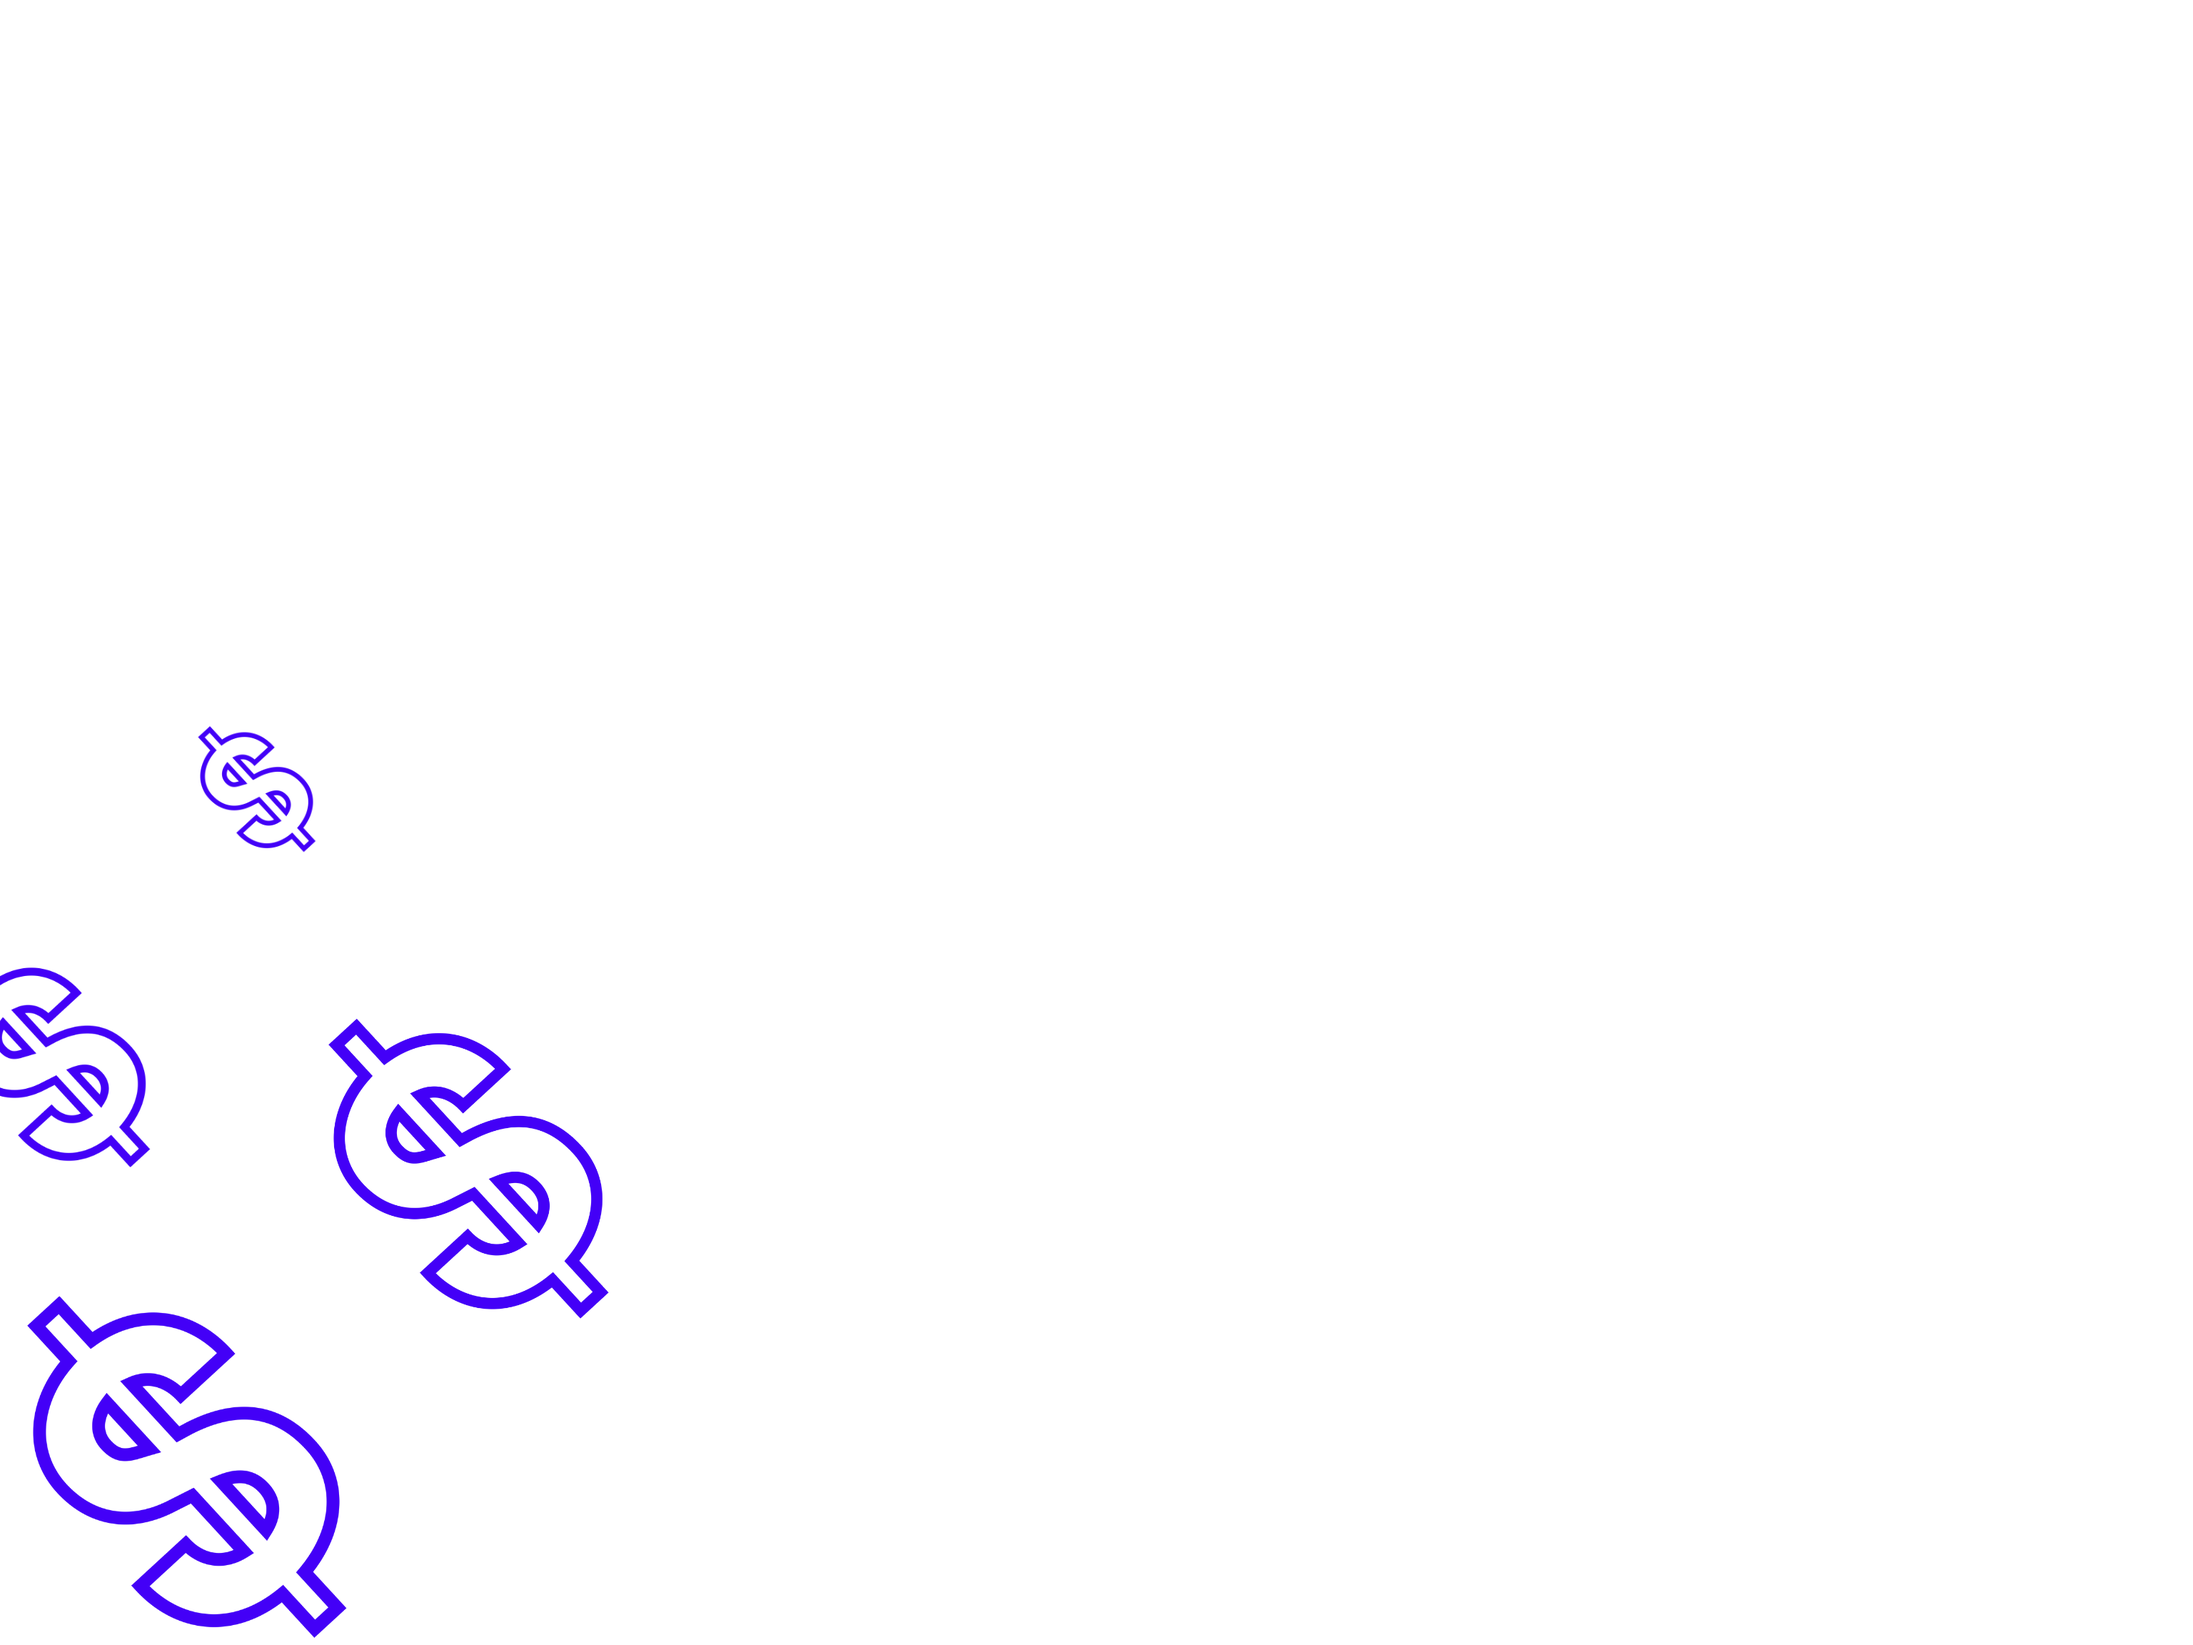
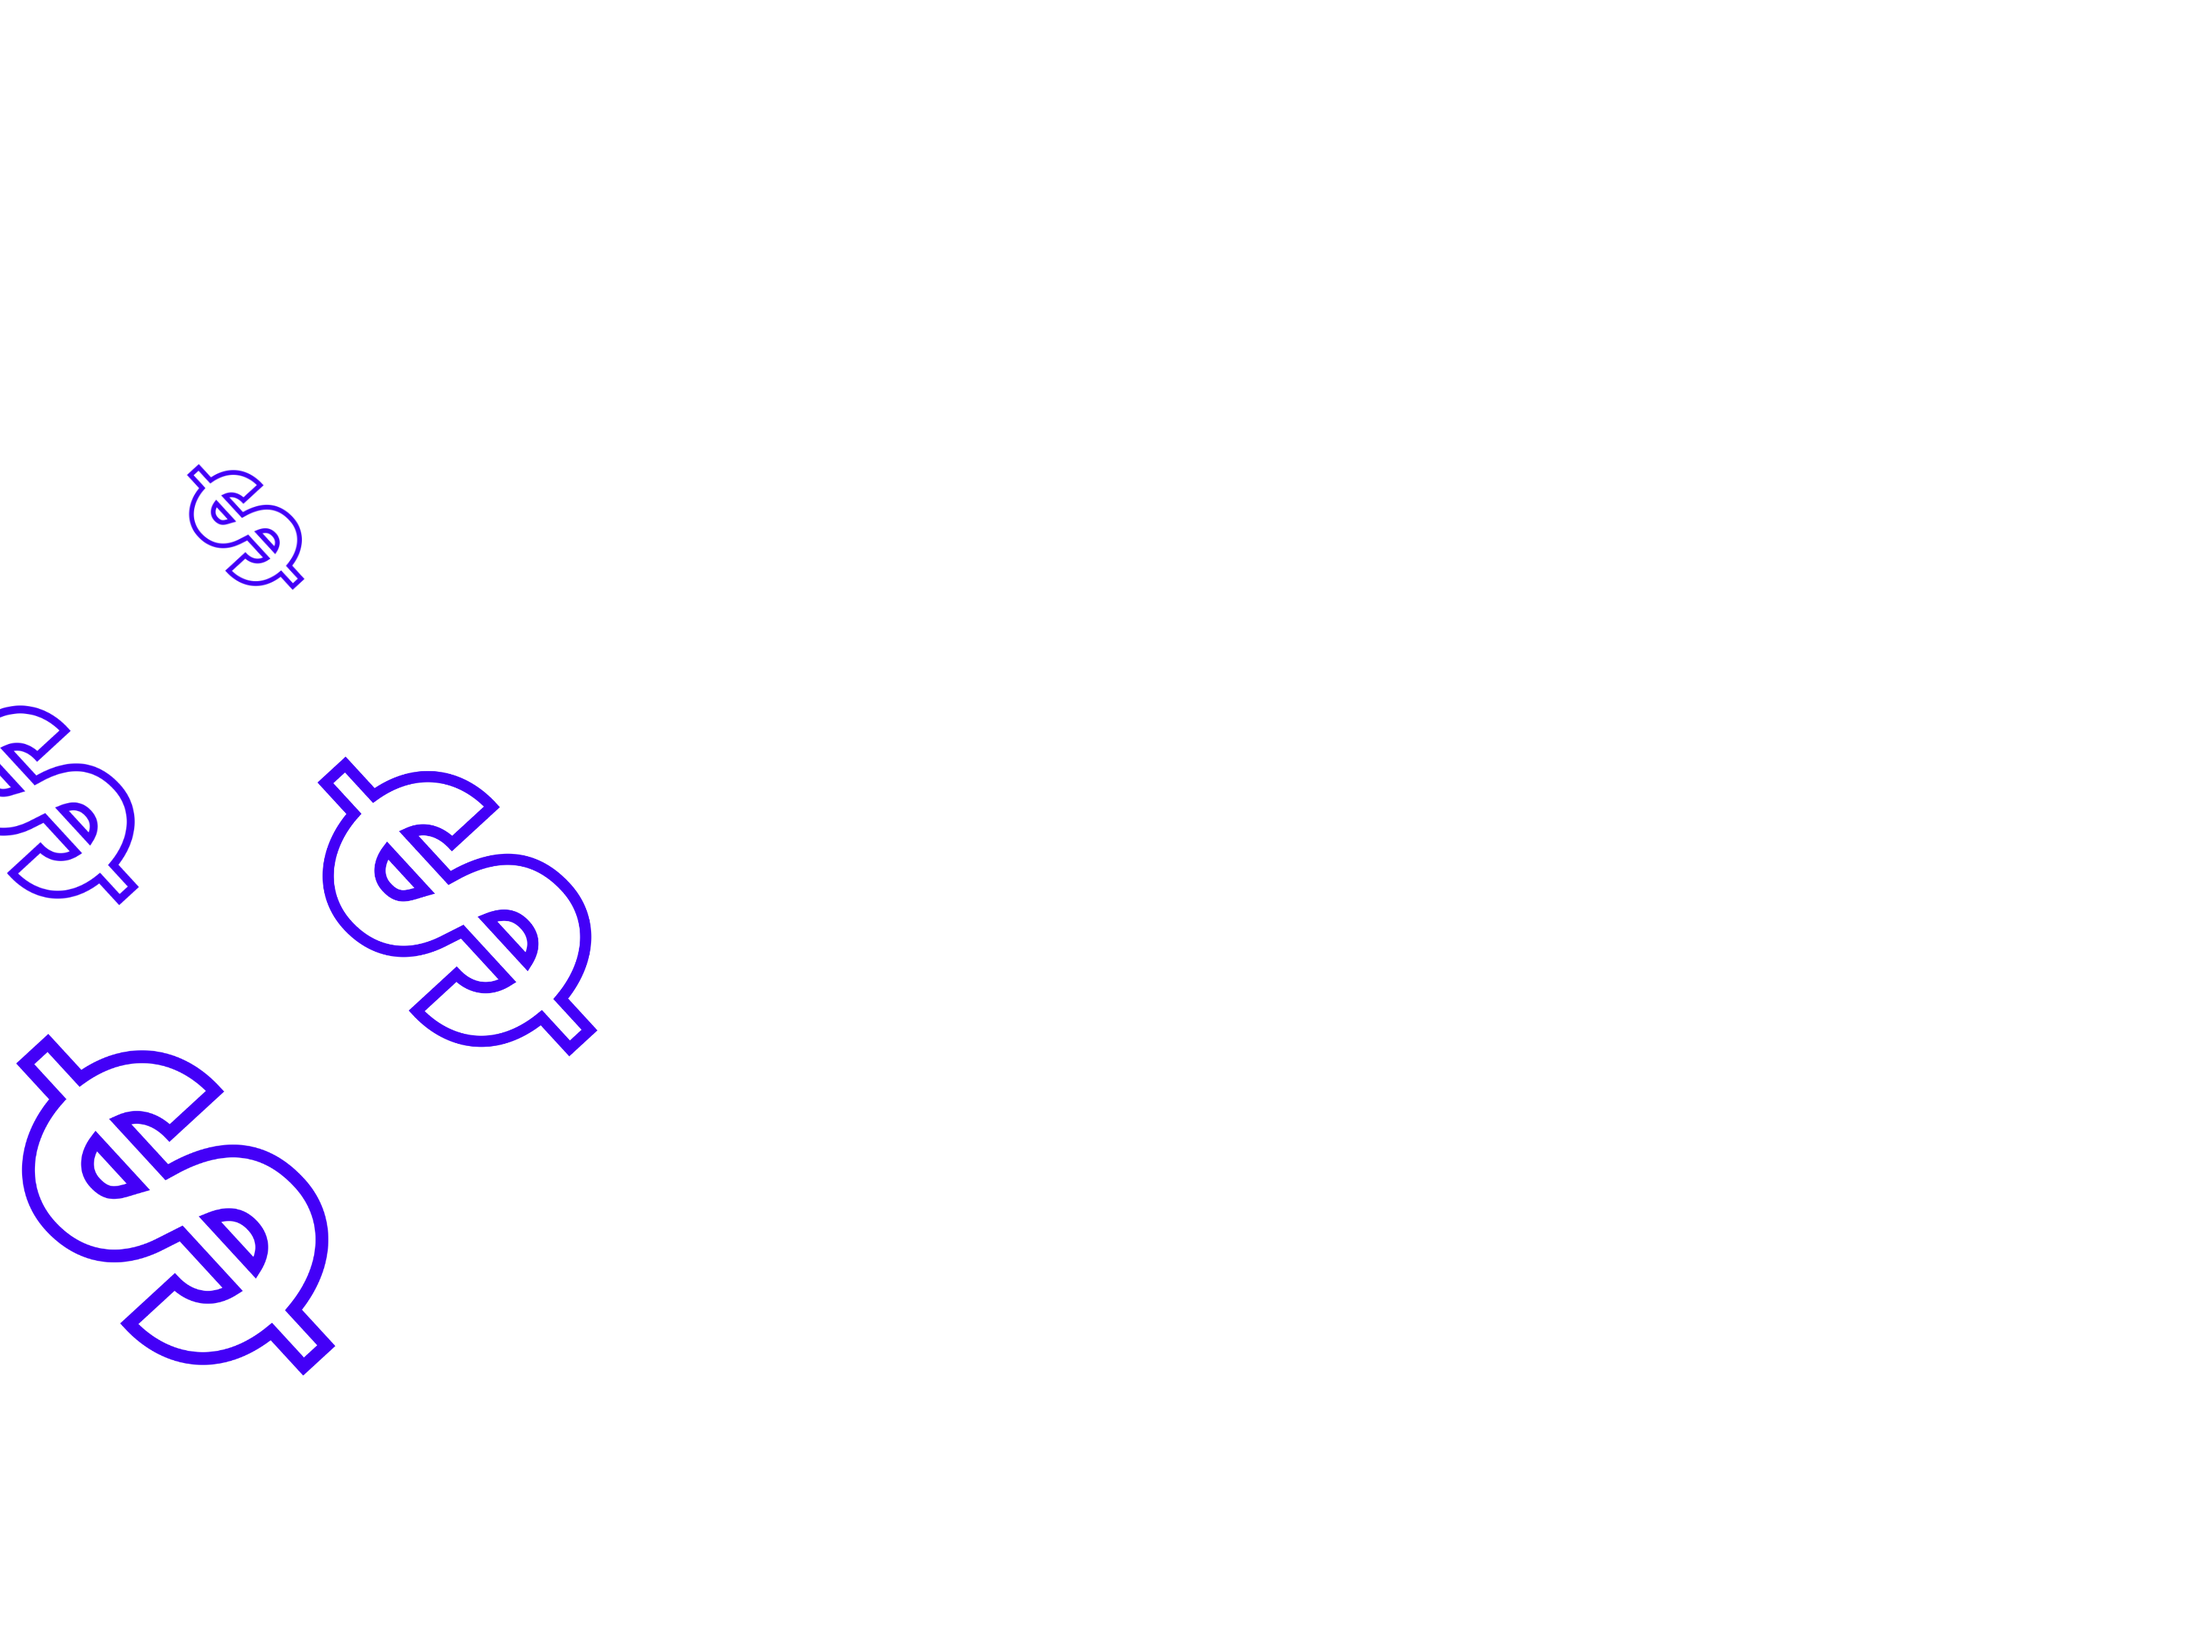
changed look slightly

Changed region(s): [[0.0, 0.4062, 0.2812, 1.0], [0.0625, 0.2812, 0.1562, 0.3438]]

diff --git a/client/src/App/Pages/OtherPages/AuthenticationPage.module.css b/client/src/App/Pages/OtherPages/AuthenticationPage.module.css
@@ -1,5 +1,5 @@
 .authenticationPageBackground {
-    background: url("../../../assets/authenticationPageBackground.png");
+    background: url("../../../assets/editedAuthenticationPageBackground.png");
     background-repeat: no-repeat;
     -webkit-background-size: cover;
     -moz-background-size: cover;

diff --git a/client/src/App/Components/Layout/Header.module.css b/client/src/App/Components/Layout/Header.module.css
@@ -1,6 +1,6 @@
 .header {
     background-color: #4300F7;
-    border-bottom: solid 2px #D7F684;
+    /* border-bottom: solid 2px #F36F27; */
     font-family: "Roboto", sans-serif;
 }
 
